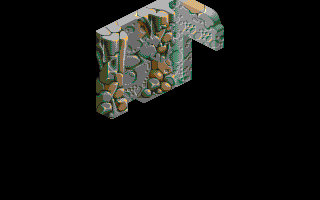
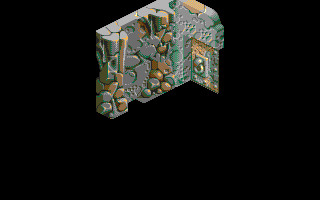
cadaver: render room_mosaic.py's dropped 0xc2 item-catalog overlay (69th pass)
Closes handoff item 1: the terrain-grid descriptor list's one non-tile entry
(graphics.md 5f) was being dropped by the tile-range filter. Its ptr is
already the item's own address past the 0x24-byte header, and its w_field/
h_field give the real size directly, so it composites through the exact same
clip/mask/paste pipeline as a tile with no separate catalog lookup. TUNNEL's
mosaic now includes it: 10604/11069 (95.8%) vs the prior tile-only 9534/9932
(96.0%) -- the percentage dip is newly-covered area occluded by the player
sprite in the reference frame, not a regression. CAVERN has zero non-tile
entries in this capture, so its score (96.6%) is unchanged.

Changed region(s): [[0.5938, 0.18, 0.6875, 0.48]]

diff --git a/M68000/reversing/cadaver/py/room_mosaic.py b/M68000/reversing/cadaver/py/room_mosaic.py
@@ -60,18 +60,23 @@ further, not a placement-formula error; not yet fully explained.
 
 **TUNNEL (captured the same way, via the CAVERN->TUNNEL "documented zigzag" - `mechanics.md`
 `kbd ff 08`/1.2M, `kbd ff 01`/0.5M, `kbd ff 08`/1.2M, `kbd ff 01`/1.2M from `gameplay_empire.snap`,
-`bpc cab6 1 <budget>` armed per leg - hits 52887 steps into the final leg): **9534/9932 = 96.0% exact
-against `room2_tunnel_entry.png`** - in line with CAVERN, once scored with that screenshot's own
-palette formula. A first pass at this score (1961/9932 = 19.7%) looked like a real content gap (right
-wall matching, left wall rendering as "generic" art) and sent a later pass chasing graphics.md 5f's
-`0xc2` marker byte as the explanation; that marker is real (5f resolves it fully) but turned out not
-to be the cause here - the actual explanation (graphics.md 5i-3) was that this file's own palette
-conversion (`sprite_array_export.decode_st_interleaved`, `gun*255//7`) disagrees with
-`tools/snap_render.py`'s `st_colour` (`gun*36`), the tool that produced `room2_tunnel_entry.png`;
-`gameplay.png` (CAVERN's reference) happens to use this file's own formula, which is why only TUNNEL
-looked broken. The two formulas should eventually be unified (graphics.md 5i-3's Open list); until
-then, a low `--diff` score against an older reference screenshot is worth checking against the
-*other* formula before trusting it as a content bug.
+`bpc cab6 1 <budget>` armed per leg - hits 52887 steps into the final leg): **10604/11069 = 95.8%
+exact against `room2_tunnel_entry.png`** (`--palette-formula st`, matching that screenshot's own
+generating tool) - in line with CAVERN. A first pass at this score (1961/9932 = 19.7%, tile-only)
+looked like a real content gap (right wall matching, left wall rendering as "generic" art) and sent a
+later pass chasing graphics.md 5f's `0xc2` marker byte as the explanation; that marker is real (5f
+resolves it fully) but turned out not to be the cause of *that* gap - the actual explanation
+(graphics.md 5i-3) was that this file's own palette conversion
+(`sprite_array_export.decode_st_interleaved`, `gun*255//7`) disagrees with `tools/snap_render.py`'s
+`st_colour` (`gun*36`), the tool that produced `room2_tunnel_entry.png`; `gameplay.png` (CAVERN's
+reference) happens to use this file's own formula, which is why only TUNNEL looked broken. The two
+formulas were later confirmed unfixable-and-unnecessary to unify (graphics.md 5i-3 addendum: neither
+reference is an authentic Hatari render, so there's no ground truth to converge on) - a low `--diff`
+score against an older reference screenshot is worth checking against the *other* `--palette-formula`
+before trusting it as a content bug. The `0xc2` marker's own item-catalog overlay (graphics.md 5f) -
+TUNNEL's one non-tile descriptor entry, previously dropped by the tile-range filter below - is now
+rendered too (source pointer and size come straight off the descriptor, no separate catalog lookup
+needed), which is what moved TUNNEL's score from 9534/9932 (tile-only) to the total above.
 """
 import argparse
 import sys
@@ -108,7 +113,8 @@ def read_descriptor_list(ram, base, a5):
         raw = ram[addr - base:addr - base + LIST_ENTRY_STRIDE]
         y0, y1 = raw[0], raw[1]
         x0 = int.from_bytes(raw[4:6], "big")
-        entries.append({"y0": y0, "y1": y1, "x0": x0, "ptr": f10 & 0xffffffff})
+        entries.append({"y0": y0, "y1": y1, "x0": x0, "w_field": raw[2], "h_field": raw[3],
+                         "ptr": f10 & 0xffffffff})
     return entries
 
 
@@ -155,9 +161,13 @@ def main():
 
     entries = read_descriptor_list(ram, base, a5)
     tiles = [e for e in entries if tile_base <= e["ptr"] < tile_base + tile_size]
-    print(f"A5={a5:#x}  list entries={len(entries)}  tile entries={len(tiles)} "
-          f"(non-tile entries are graphics.md 5f's 0xc2-sourced item-catalog overlays, "
-          f"not rendered here yet)")
+    # A non-tile entry's ptr sits in the type-2 item catalog's data area instead (graphics.md
+    # 5f's 0xc2 marker): its source pointer is already past that entry's 0x20+4-byte header, and
+    # its own full size is the descriptor's w_field*16 x h_field (unlike a tile, where w_field is
+    # always 2/32px and h_field can disagree with the real clip height y1-y0).
+    items = [e for e in entries if not (tile_base <= e["ptr"] < tile_base + tile_size)]
+    print(f"A5={a5:#x}  list entries={len(entries)}  tile entries={len(tiles)}  "
+          f"item-catalog entries={len(items)} (graphics.md 5f's 0xc2-sourced overlays)")
     if not tiles:
         raise SystemExit("no tile-catalog entries found - is this really a mid-cab6 snapshot? "
                           "(see the capture recipe in this file's docstring)")
@@ -165,22 +175,28 @@ def main():
     from PIL import Image
     canvas = Image.new("RGB", (SCREEN_W, SCREEN_H), (0, 0, 0))
     coverage = Image.new("L", (SCREEN_W, SCREEN_H), 0)
-    for e in tiles:
+
+    def paste(addr, src_w, src_h, e):
         h = e["y1"] - e["y0"]
-        addr = tile_base + (e["ptr"] - tile_base) // TILE_STRIDE * TILE_STRIDE
-        img = sae.decode_st_interleaved(ram, addr, 32, 32, 4, palette).convert("RGB")
-        # Each 32x32 tile is a cube shape on a black (palette index 0) background, not a
-        # full square of art - pasting opaquely lets every tile's black corners stomp over
-        # the previous tile in the ~50% column/row overlap this placement relies on,
-        # producing a comb of gaps instead of a continuous wall. Palette index 0 is the
-        # real transparent background here (graphics.md 5i); mask it out.
-        idx_img = sae.decode_st_interleaved(ram, addr, 32, 32, 4, None)  # "L" mode, idx*17
-        # A clipped tile (h < 32) shows its BOTTOM h rows - the top (32-h) ran off-screen.
-        top_crop = 32 - h
-        crop_img = img.crop((0, top_crop, 32, 32))
-        mask = idx_img.crop((0, top_crop, 32, 32)).point(lambda v: 255 if v != 0 else 0)
+        img = sae.decode_st_interleaved(ram, addr, src_w, src_h, 4, palette).convert("RGB")
+        # Each source image is a shape on a black (palette index 0) background, not a full
+        # rectangle of art - pasting opaquely lets its black corners stomp over the previous
+        # entry in the ~50% column/row overlap this placement relies on, producing a comb of
+        # gaps instead of a continuous wall. Palette index 0 is the real transparent background
+        # here (graphics.md 5i); mask it out.
+        idx_img = sae.decode_st_interleaved(ram, addr, src_w, src_h, 4, None)  # "L" mode, idx*17
+        # A clipped entry (h < src_h) shows its BOTTOM h rows - the top (src_h-h) ran off-screen.
+        top_crop = src_h - h
+        crop_img = img.crop((0, top_crop, src_w, src_h))
+        mask = idx_img.crop((0, top_crop, src_w, src_h)).point(lambda v: 255 if v != 0 else 0)
         canvas.paste(crop_img, (e["x0"], e["y0"]), mask)
         coverage.paste(mask, (e["x0"], e["y0"]), mask)
+
+    for e in tiles:
+        addr = tile_base + (e["ptr"] - tile_base) // TILE_STRIDE * TILE_STRIDE
+        paste(addr, 32, 32, e)
+    for e in items:
+        paste(e["ptr"], e["w_field"] * 16, e["h_field"], e)
     canvas.save(args.out)
     print("wrote", args.out, canvas.size)
 

diff --git a/M68000/reversing/cadaver/graphics.md b/M68000/reversing/cadaver/graphics.md
@@ -417,6 +417,20 @@ TUNNEL's one live `0xc2` cell (width-pass column 1, row 0 — §5i-3) resolves t
 direct render to actually look like a carved wall ornament, not a prop. **This closed out §5i-3's
 "leading suspect" for TUNNEL's low match score — see below, it turned out not to be the cause.**
 
+**69th pass**: `room_mosaic.py` now renders this entry too, not just `resource2_export.py`'s
+standalone catalog dump. Its mid-draw descriptor sits in the same 400-entry list as the tile
+entries, just with `ptr` outside the tile catalog's range; that `ptr` (`$516fa`) is already
+`decor001`'s own address (`$516d6`) plus the `0x24`-byte header §5a decodes past, and the
+descriptor's `w_field`/`h_field` (bytes 2/3, previously read only for tiles, where they're a fixed
+2/32px and an unreliable secondary height) give the item's real 48×57 size directly — no per-item
+lookup needed beyond what the descriptor list already carries. Compositing it through the same
+clip/mask/paste pipeline as a tile takes TUNNEL's mosaic from 9534/9932 (96.0%, tile-only) to
+**10604/11069 (95.8%) pixel-exact against `room2_tunnel_entry.png`**; the small drop in percentage
+(not a regression) is the newly-covered area including the player sprite standing in front of the
+panel in the reference frame, which this tool still doesn't draw (sprites are §5j point 5's separate
+per-frame list). CAVERN's mid-draw capture has zero non-tile entries, so its score is unaffected
+(19079/19749, 96.6%, unchanged).
+
 **5g. No tile-adjacency/compatibility ruleset exists anywhere in the traced decode or draw path —
 placement is level-data, not engine-enforced.** Both the decoder (§5b, `$00add0`-`$00ae62`) and the
 plain-tile consumer (§5c, `$00cab6`-`$00cb28`) were read in full this pass: neither contains a
@@ -594,10 +608,9 @@ already the correct permanent answer: match each screenshot to whichever formula
 closes the item; a `hatari` option is kept in `room_mosaic.py` for if a genuinely Hatari-sourced
 reference screenshot is ever captured later.
 
-**Not yet done**: (1) render `room_mosaic.py`'s one dropped `0xc2`-sourced entry (§5f) for
-completeness — small (48×57px), low priority now that it's not blocking the match score; (2) stack
-direction (does column index 0 sit at the floor or the ceiling) — the live capture didn't settle this
-either, though the visual match's overall coherence is suggestive; (3) CAVERN's own ~3.4%
+**Not yet done**: (1) stack direction (does column index 0 sit at the floor or the ceiling) — the
+live capture didn't settle this either, though the visual match's overall coherence is suggestive;
+(2) CAVERN's own ~3.4%
 overlap-edge residual (§5i-2, unaffected by the palette-formula question above, since its
 reference already matches `room_mosaic.py`'s default formula) is still unexplained, though small and
 visually negligible.
@@ -648,17 +661,17 @@ per room from a tiny compressed stream into a per-column tile stack (§5e) that 
 catalog is drawn through, with no runtime adjacency rules (§5g), placed on screen by a byte-exact
 formula (§5h) and a now-fully-traced-and-live-confirmed draw pipeline (§5i) ending in the same shared
 blitter as every sprite (§4b), scored at 96.6% exact against `gameplay.png` for CAVERN (§5i-2) and
-96.0% for TUNNEL (§5i-3, once scored with the matching palette formula — the placement mechanism is
-proven generic and correct for both rooms, full stop). The grid's one non-tile marker byte, `0xc2`,
+95.8% for TUNNEL (§5i-3, 10604/11069, including the one `0xc2` item overlay — the placement mechanism
+is proven generic and correct for both rooms, full stop). The grid's one non-tile marker byte, `0xc2`,
 is a second, fully-traced drawing channel through the same pipeline: it paints a small item/icon from
-a second, 255-entry shared catalog (type 2, §5a) into a grid cell instead of a terrain tile (§5f) —
+a second, 255-entry shared catalog (type 2, §5a) into a grid cell instead of a terrain tile (§5f), and
+(69th pass) `room_mosaic.py` now renders it through that same pipeline rather than dropping it —
 real and generic, but a minor contributor, not the explanation for either room's residual mismatch.
-**Open**: (a) render `room_mosaic.py`'s one still-dropped `0xc2` entry for completeness (§5f/§5i-3);
-(b) stack direction (does column index 0 sit at the floor or the ceiling) — still not proven; (c) the
-remaining 3.4% overlap-edge pixel mismatch in the CAVERN score (§5i-2), unrelated to the two tools'
-differing palette formulas (§5i-3 addendum: closed — neither reference is an authentic Hatari render,
-so there is nothing to unify, and each tool already matches its own reference) — small and visually
-negligible, cause not identified; (d) cross-check type 2's catalog (§5a) against
+**Open**: (a) stack direction (does column index 0 sit at the floor or the ceiling) — still not
+proven; (b) the remaining 3.4% overlap-edge pixel mismatch in the CAVERN score (§5i-2), unrelated to
+the two tools' differing palette formulas (§5i-3 addendum: closed — neither reference is an authentic
+Hatari render, so there is nothing to unify, and each tool already matches its own reference) — small
+and visually negligible, cause not identified; (c) cross-check type 2's catalog (§5a) against
 §3's 22-entry object array field-for-field — same conceptual role (small-object art), relationship
 between the two not yet confirmed.
 
@@ -672,7 +685,7 @@ between the two not yet confirmed.
 | `spritesheet_29800.png` | the player's `$029800`-`$02de08` frame sheet, rendered as a 6×5 grid of 32×42 4bpp cells (struct-confirmed stride), live palette `$5a9c` |
 | `player_frame_alt.png` | the player's alternate/gesture frame (`$2ca94`, 32×42) — not captured by the array export below, since only the *current* frame pointer is live in any one snapshot |
 | `sprites/` | the full 22-entry sprite-object-array catalog (§3) — one PNG per slot, `contact_sheet.png`, `manifest.csv` |
-| `tiles/` | the shared 80-tile room-terrain catalog (§5d) — `tile00_3e77e_32x32.png`-`tile79_...png`, `contact_sheet.png`, `manifest.csv`; `cavern_grid.png`/`tunnel_grid.png` (§5e) — each room's decoded per-column tile-stack rendered against the catalog; `cavern_mosaic.png` (§5i/§5i-2) — CAVERN's real terrain rendered at its live, engine-computed screen positions from a mid-room-entry snapshot, scored 96.6% pixel-exact against `gameplay.png`; `tunnel_mosaic.png` (§5i-3) — same mechanism applied to TUNNEL, table- and re-render-confirmed correct, 96.0% pixel-exact against `room2_tunnel_entry.png` once scored with that screenshot's own palette formula (§5i-3) |
+| `tiles/` | the shared 80-tile room-terrain catalog (§5d) — `tile00_3e77e_32x32.png`-`tile79_...png`, `contact_sheet.png`, `manifest.csv`; `cavern_grid.png`/`tunnel_grid.png` (§5e) — each room's decoded per-column tile-stack rendered against the catalog; `cavern_mosaic.png` (§5i/§5i-2) — CAVERN's real terrain rendered at its live, engine-computed screen positions from a mid-room-entry snapshot, scored 96.6% pixel-exact against `gameplay.png`; `tunnel_mosaic.png` (§5i-3) — same mechanism applied to TUNNEL, table- and re-render-confirmed correct, including its one `0xc2` item-catalog overlay (§5f), 95.8% pixel-exact against `room2_tunnel_entry.png` once scored with that screenshot's own palette formula (§5i-3) |
 | `items/` | resource type 2's 255-slot (102 distinct) small-object/icon catalog (§5a/§5f) — `decor000_...png`-`decor254_...png`, `contact_sheet.png`, `manifest.csv` (`reversing/cadaver/py/resource2_export.py`); includes the two wall-panel entries (`decor000`/`decor001`) the terrain grid's `0xc2` marker byte draws (§5f) |
 | `../../tools/sprite_array_export.py` | the (game-agnostic) tool that produced `sprites/` (struct-driven array mode, `--base`/`--array-ptr-field`) and the raw `tiles/` catalog (fixed-stride mode, `--sequence BASE STRIDE COUNT W H`) |
 | `py/room_tile_grid.py` | decodes a room's `(A5)+2914` tile-id grid (§5b/5e) and renders it against the shared catalog; usage in its own header |
